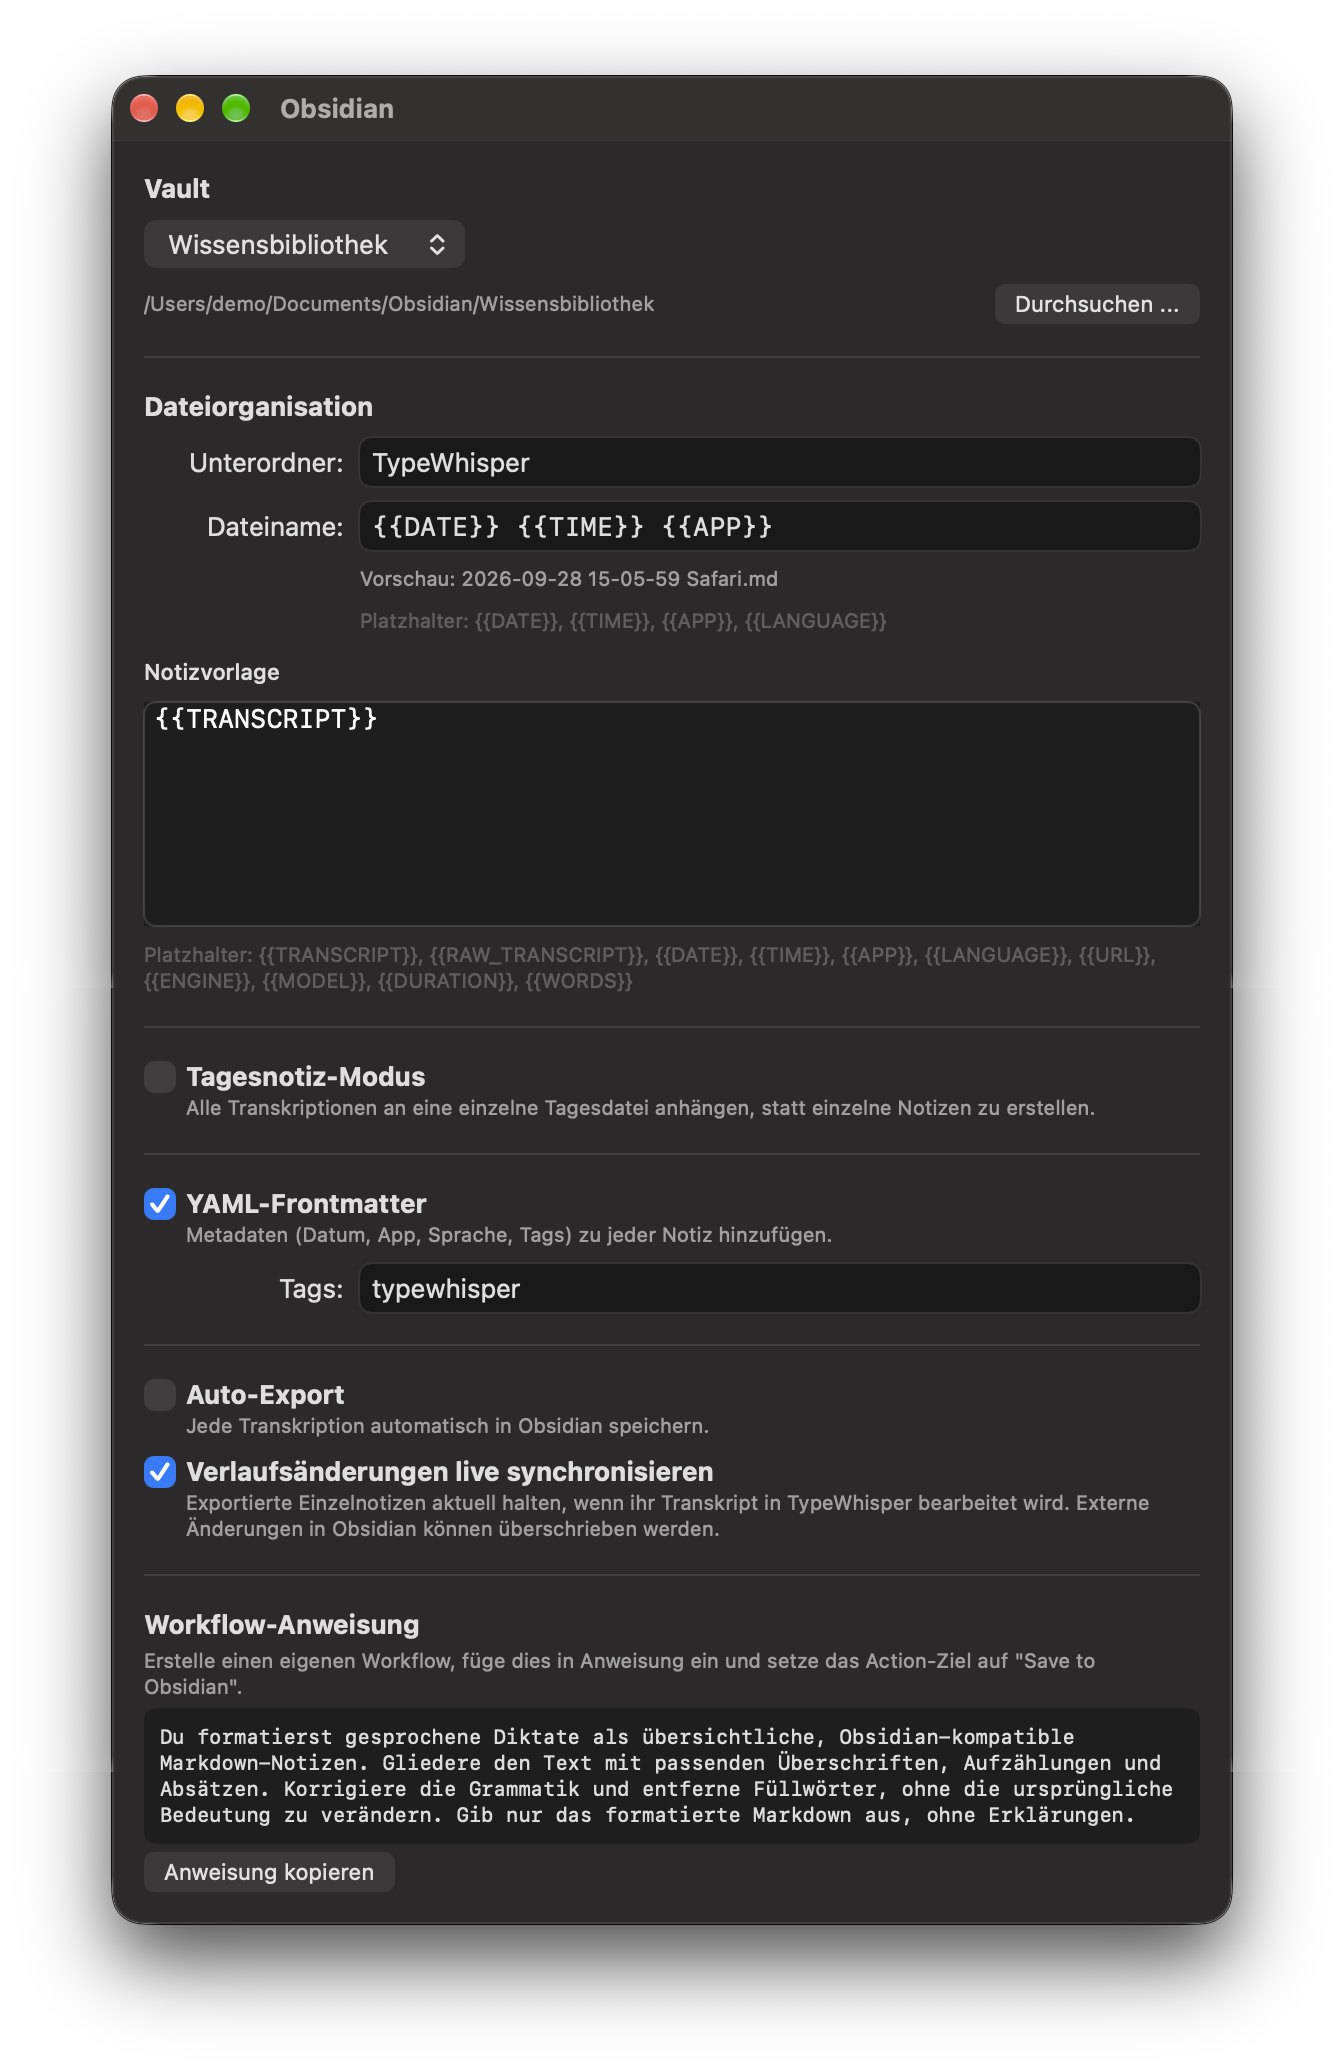
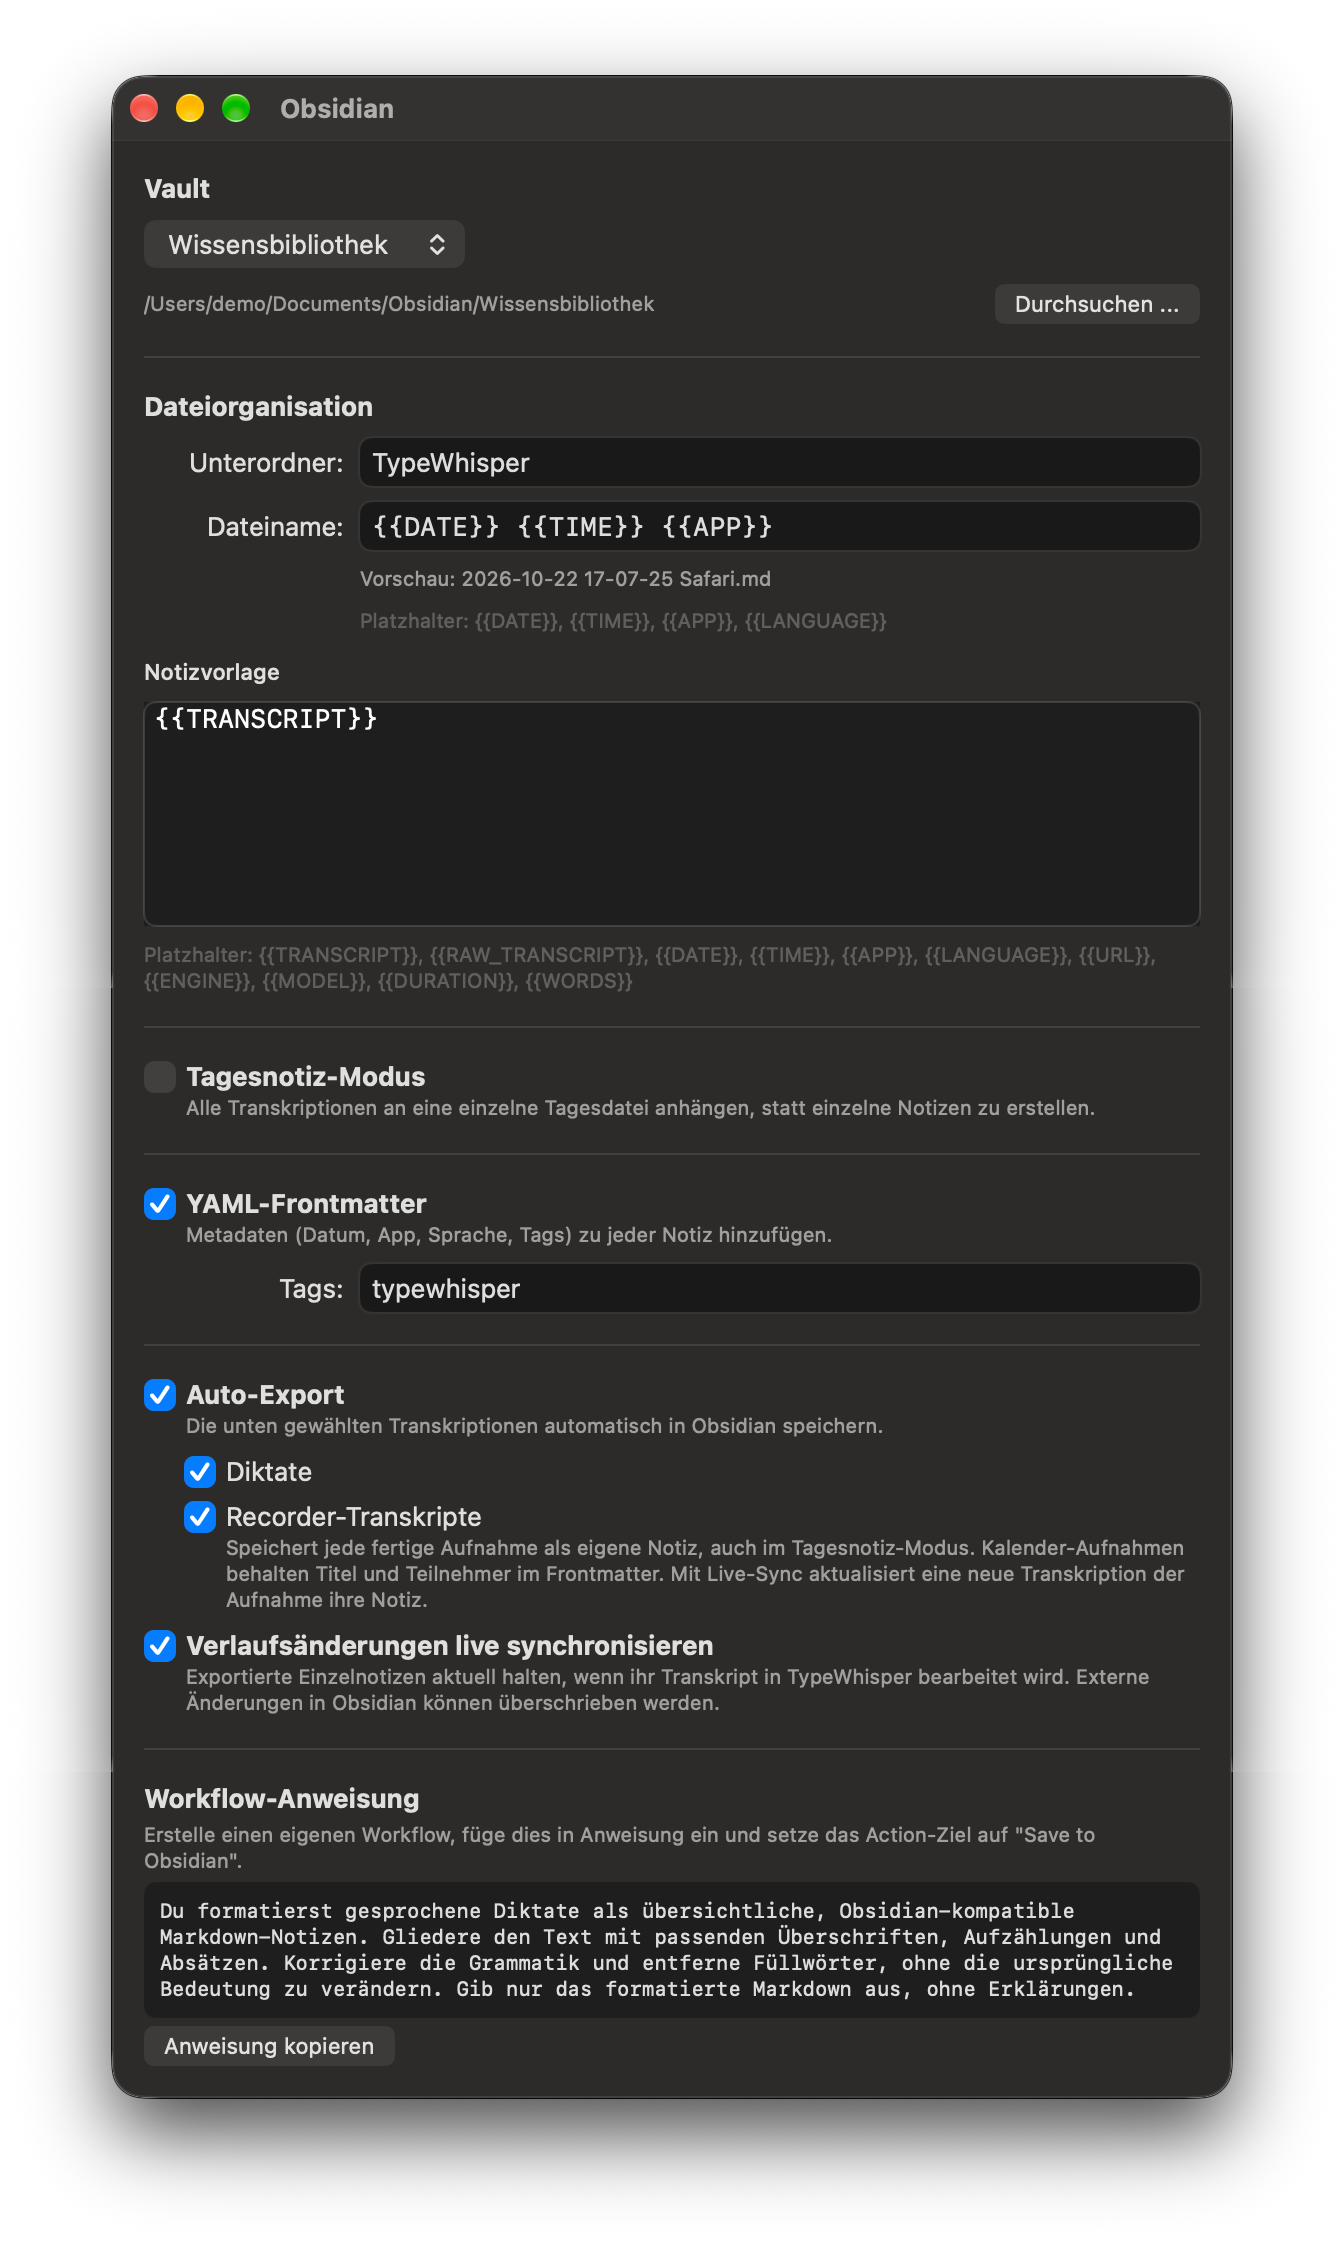
Describe Recorder transcripts in the Obsidian add-on for macOS (#189)
* Describe Recorder transcripts in the Obsidian add-on for macOS

Obsidian 1.2 for macOS can save Recorder transcripts as their own notes
and lets Auto-Export leave out dictations. The page explains the two
Auto-Export switches, the meeting frontmatter, file names, Live Sync for
retranscriptions and the missing speaker names, and names version 1.2.0
with its TypeWhisper 1.8.0 requirement. The screenshots show the new
switches.

* Note that Live Sync updates Recorder notes in Daily Note Mode

* Name the recommended Recorder setup after what it exports

* State plainly that Recorder notes have no speaker names

* Expect TypeWhisper 1.8.0 on the Obsidian macOS page

diff --git a/tests/addon-editions.spec.ts b/tests/addon-editions.spec.ts
@@ -441,7 +441,7 @@ test.describe("add-on platform editions", () => {
     ).toBeVisible();
     await expect(
       page.getByText(
-        "TypeWhisper 1.6.0 oder neuer · macOS 14.0 oder neuer",
+        "TypeWhisper 1.8.0 oder neuer · macOS 14.0 oder neuer",
         { exact: true },
       ),
     ).toBeVisible();
